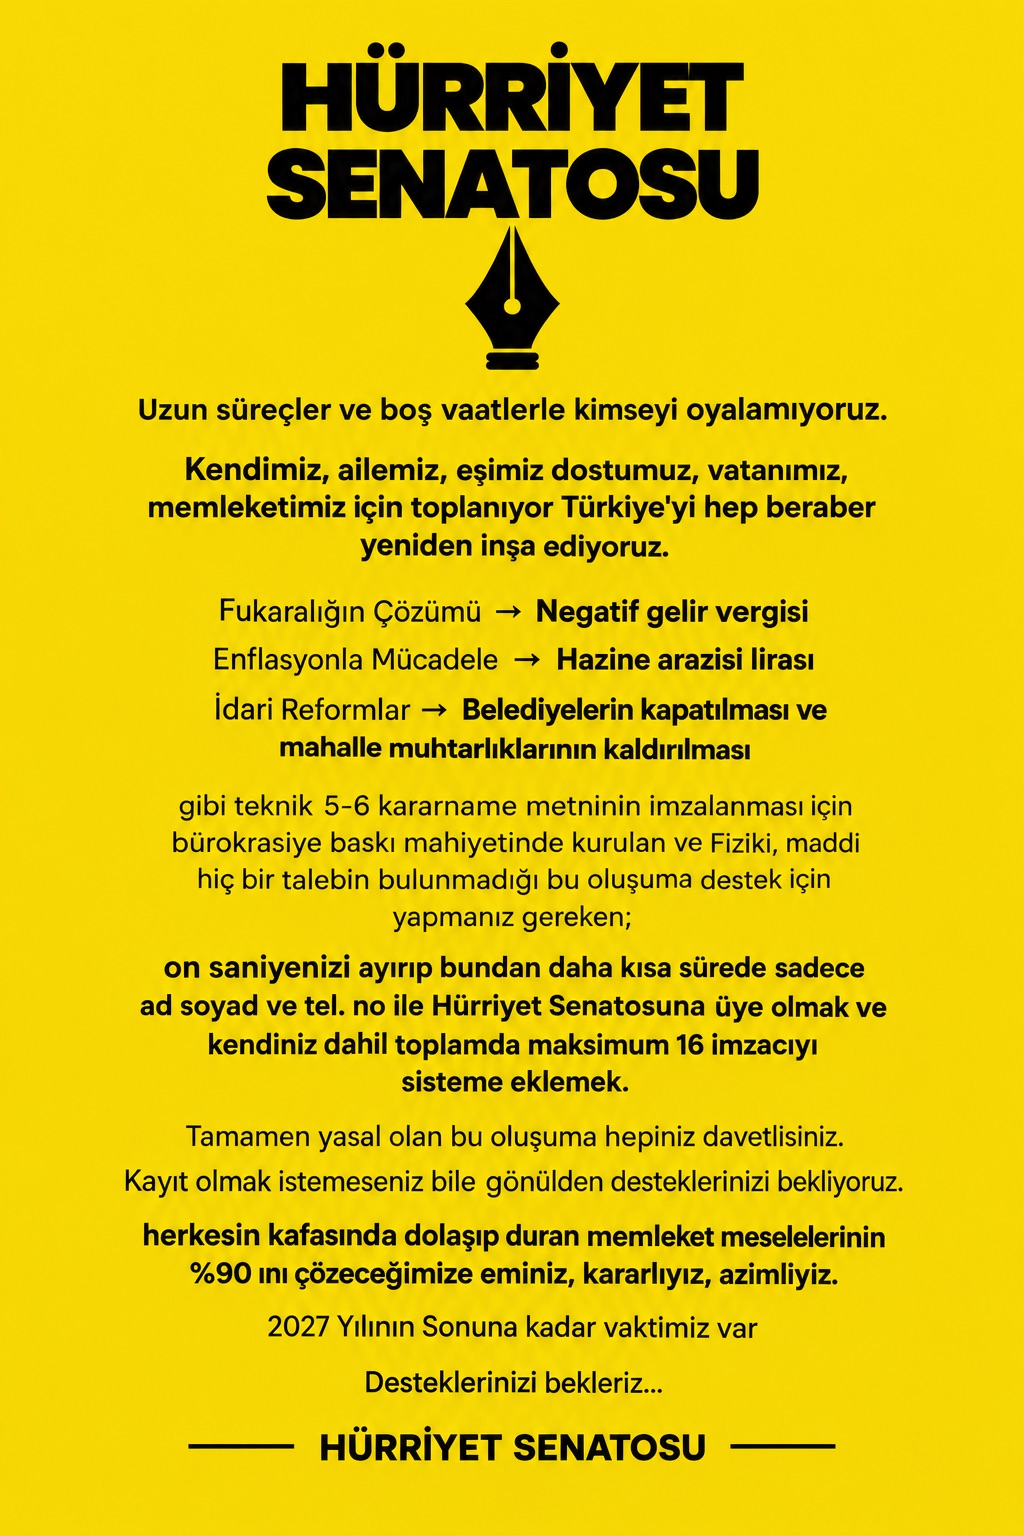
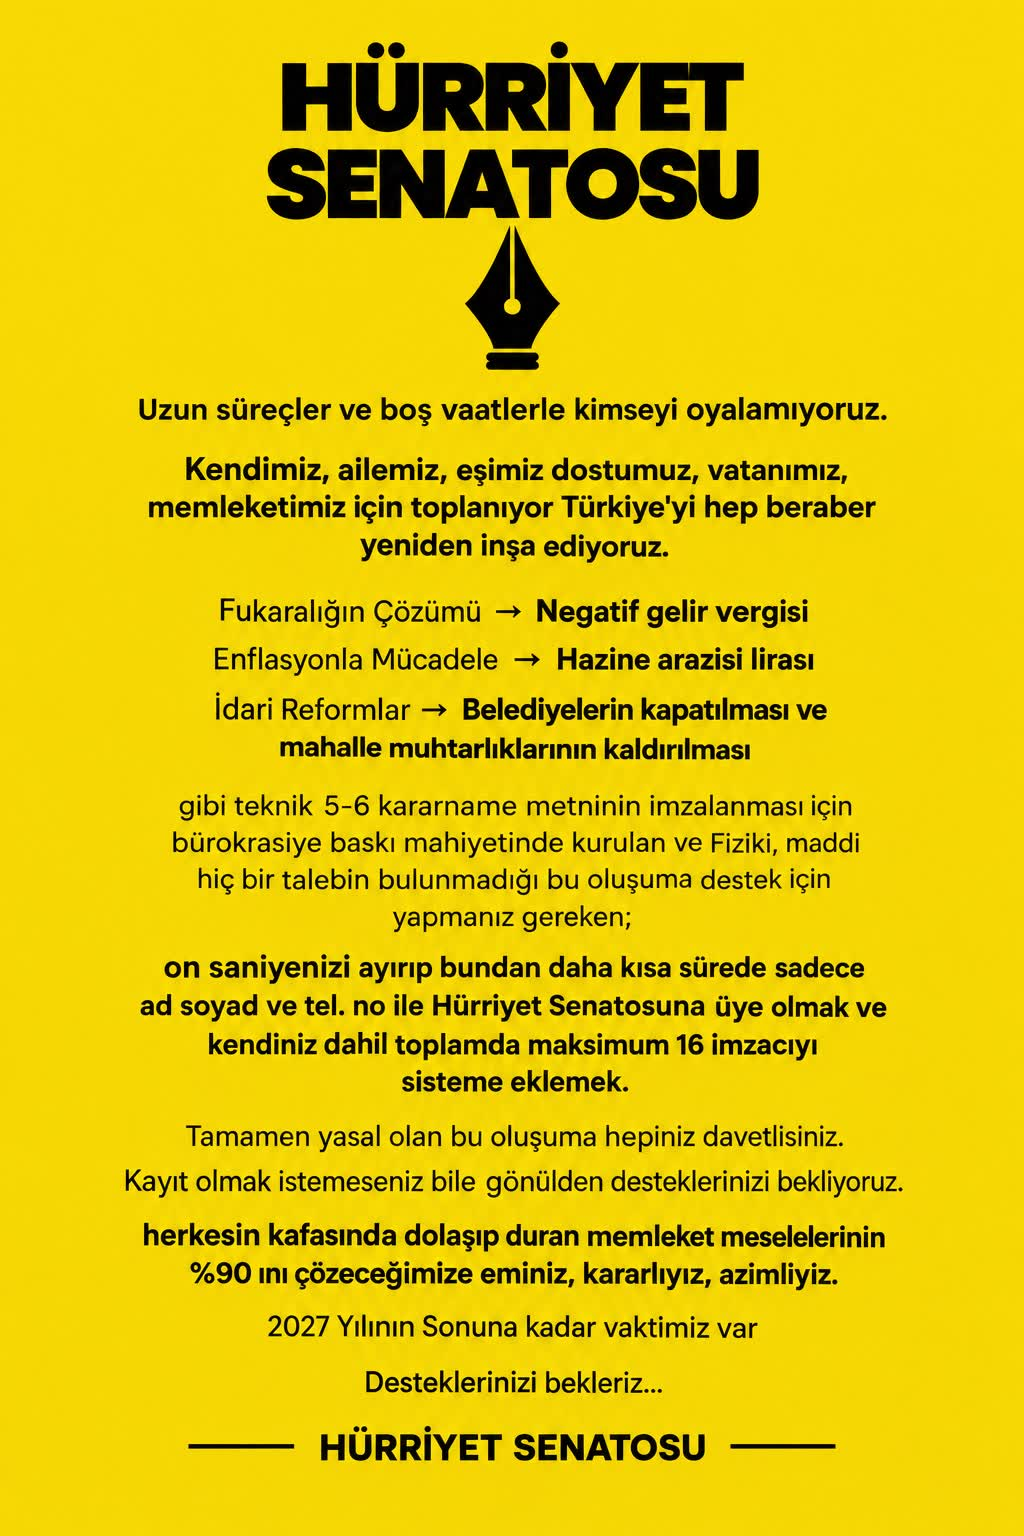
Davet pop-up'i: VSL'e dokunmayanlara ~12 sn sonra poster + Uye Ol dugmesi; X/Esc/arka plan ile kapanir; pop_up.jpg sikistirildi (383 -> 173 KB); onbellek v8

diff --git a/assets/js/main.js b/assets/js/main.js
@@ -5,6 +5,7 @@ const CONFIG = {
   STORE_URL: "{{STORE_URL}}",
   VSL_URL: "assets/video/vsl.mp4?v=7", // yerel mp4 (dosya yolu) veya YouTube linki
   REF_PARAM: "ref", // platform farklı parametre adı kullanıyorsa burayı değiştir
+  POPUP_DELAY_MS: 12000, // davet pop-up'ı gecikmesi (ms). Demo için URL'ye ?popup=8 yaz: 8 sn.
 };
 
 function isPlaceholder(v) {
@@ -358,6 +359,52 @@ document.addEventListener("DOMContentLoaded", () => {
       });
     }
   }
+
+  /* ---------- Davet pop-up'ı: VSL'e dokunmayan ziyaretçiye ~12 sn sonra bir kez ---------- */
+  (function davetPopup() {
+    const dlg = document.getElementById("davet");
+    if (!dlg || typeof dlg.showModal !== "function") return;
+    const kapatBtn = document.getElementById("davetKapat");
+    // Gösterildi mi? Yalnızca sekme oturumunda hatırlanır (çerez/localStorage kullanılmaz).
+    const goruldu = () => { try { return sessionStorage.getItem("hs_davet") === "1"; } catch { return false; } };
+    const isaretle = () => { try { sessionStorage.setItem("hs_davet", "1"); } catch {} };
+    if (goruldu()) return;
+    // Demo kolaylığı: ?popup=8 → 8 saniye sonra göster (1-120 sn)
+    const demoSn = (() => {
+      try {
+        const n = parseInt(new URLSearchParams(window.location.search).get("popup") || "", 10);
+        return n >= 1 && n <= 120 ? n * 1000 : 0;
+      } catch { return 0; }
+    })();
+    // VSL'e dokunulduysa (oynat düğmesi, video oynatma veya duraklat düğmesi) davet gösterilmez.
+    let vslDokunuldu = false;
+    const dokun = () => { vslDokunuldu = true; };
+    if (video) video.addEventListener("play", dokun);
+    if (play) play.addEventListener("click", dokun);
+    if (tgl) tgl.addEventListener("click", dokun);
+
+    const kapat = () => { if (dlg.open) dlg.close(); };
+    const ac = () => {
+      if (goruldu() || vslDokunuldu) return;
+      if (video && !video.paused && !video.ended) return; // video oynuyorsa dokunma
+      isaretle();
+      dlg.showModal();
+      document.body.classList.add("popup-acik");
+    };
+    if (kapatBtn) kapatBtn.addEventListener("click", kapat);
+    dlg.addEventListener("click", (e) => { if (e.target === dlg) kapat(); }); // arka plana tıklayınca kapan
+    dlg.addEventListener("close", () => document.body.classList.remove("popup-acik"));
+    dlg.querySelectorAll("[data-apply-link]").forEach((a) => a.addEventListener("click", isaretle));
+
+    setTimeout(() => {
+      if (document.visibilityState === "hidden") {
+        document.addEventListener("visibilitychange", function gor() {
+          document.removeEventListener("visibilitychange", gor);
+          ac();
+        });
+      } else { ac(); }
+    }, demoSn || CONFIG.POPUP_DELAY_MS || 12000);
+  })();
 
   /* ---------- Sorun şeridi: kesintisiz (sonsuz) döngü ---------- */
   const track = document.getElementById("tickerTrack");

diff --git a/index.html b/index.html
@@ -20,7 +20,7 @@
 <link rel="preload" href="assets/fonts/montserrat-latin-ext.woff2" as="font" type="font/woff2" crossorigin>
 <link rel="preload" href="assets/fonts/inter-latin-ext.woff2" as="font" type="font/woff2" crossorigin>
 <link rel="stylesheet" href="assets/css/fonts.css?v=5">
-<link rel="stylesheet" href="assets/css/main.css?v=7">
+<link rel="stylesheet" href="assets/css/main.css?v=8">
 <!-- {{ANALYTICS}} : gizlilik odaklı analitik gerekiyorsa bu satırın altına ekle. Varsayılan: üçüncü taraf script yok. -->
 </head>
 <body>
@@ -432,6 +432,18 @@
 <a class="sticky-cta" data-apply-link href="https://hursenato.com/">Senatör Ol &rarr;</a>
 <button class="to-top" id="toTop" aria-label="Başa dön">↑</button>
 
-<script src="assets/js/main.js?v=7" defer></script>
+<!-- Davet pop-up'ı: VSL'e dokunmayan ziyaretçiye ~12 sn sonra bir kez gösterilir -->
+<dialog class="popup" id="davet" aria-labelledby="davetBaslik">
+  <h2 class="visually-hidden" id="davetBaslik">Hürriyet Senatosu'na davet</h2>
+  <button class="popup-x" id="davetKapat" type="button" aria-label="Daveti kapat"><svg viewBox="0 0 24 24" width="18" height="18" aria-hidden="true" fill="none" stroke="currentColor" stroke-width="2.6" stroke-linecap="round"><path d="M6 6l12 12M18 6L6 18"/></svg></button>
+  <div class="popup-govde">
+    <img src="assets/img/pop_up.jpg" alt="Hürriyet Senatosu daveti: ad, soyad ve telefon numarasıyla kısa sürede üye ol; kendin dahil en fazla 16 imzacıyı sisteme ekle." width="1024" height="1536" loading="lazy" decoding="async">
+  </div>
+  <div class="popup-alt">
+    <a class="btn btn-primary" data-apply-link href="https://hursenato.com/">Üye Ol</a>
+  </div>
+</dialog>
+
+<script src="assets/js/main.js?v=8" defer></script>
 </body>
 </html>

diff --git a/assets/css/main.css b/assets/css/main.css
@@ -352,6 +352,22 @@ details p{margin:.65rem 0 0;color:var(--ink-soft)}
 .to-top:hover{transform:translateY(-3px)}
 @media(min-width:880px){.to-top{bottom:1.5rem}}
 
+/* ---------- Davet pop-up'ı (VSL'e dokunmayan ziyaretçiye ~12 sn sonra bir kez) ---------- */
+.popup{width:min(94vw,520px);max-height:92vh;max-height:92dvh;padding:0;border:2px solid var(--ink);border-radius:var(--radius);background:var(--paper);box-shadow:8px 9px 0 rgba(17,17,17,.75);overflow:hidden}
+.popup[open]{display:flex;flex-direction:column;animation:popGir .28s ease}
+.popup::backdrop{background:rgba(17,17,17,.62)}
+.popup-govde{overflow:auto;-webkit-overflow-scrolling:touch;background:var(--paper);scrollbar-width:thin}
+.popup-govde::-webkit-scrollbar{width:8px}
+.popup-govde::-webkit-scrollbar-thumb{background:rgba(17,17,17,.35);border-radius:8px}
+.popup-govde::-webkit-scrollbar-track{background:transparent}
+.popup-govde img{display:block;width:100%;height:auto}
+.popup-x{position:absolute;top:.5rem;right:.5rem;width:2.35rem;height:2.35rem;border-radius:50%;background:var(--ink);color:var(--paper);border:2px solid var(--paper);display:grid;place-items:center;cursor:pointer;transition:transform .2s ease}
+.popup-x:hover{transform:scale(1.08)}
+.popup-alt{padding:.8rem;background:#fff;border-top:2px solid var(--ink)}
+.popup-alt .btn{display:block;width:100%;text-align:center}
+body.popup-acik{overflow:hidden}
+@keyframes popGir{from{opacity:0;transform:translateY(14px) scale(.97)}}
+
 /* ---------- Animasyonlar ---------- */
 [data-reveal]{opacity:0;transform:translateY(24px);transition:opacity .6s ease,transform .6s ease}
 [data-reveal].in{opacity:1;transform:none}

diff --git a/README.md b/README.md
@@ -27,8 +27,10 @@ python scripts/serve.py 8000        # --open eklersen tarayıcıyı da açar
 `scripts/serve.py` her yanıta `Cache-Control: no-store` ekler: VS Code'da CSS/JS'i
 kaydedip tarayıcıda **F5** yaptığında değişiklik anında görünür. Klasik
 `python -m http.server 8000` kullanırsan tarayıcı eski CSS'i önbellekten servis edebilir;
-o durumda **Ctrl+F5** (sert yenileme) yap. CSS/JS bağlantılarındaki `?v=7` eki de
-bir kerelik önbellek kırıcıdır — büyük bir değişiklikte bir artır (`?v=8`).
+o durumda **Ctrl+F5** (sert yenileme) yap. CSS/JS bağlantılarındaki `?v=8` eki de
+bir kerelik önbellek kırıcıdır — değişen dosyanın sürümünü bir artır (`?v=9`);
+video/poster gibi ağır dosyalar değişmediyse onların `?v`'sine dokunma (boşuna
+yeniden indirilmesin).
 
 ## Yapı
 
@@ -36,10 +38,11 @@ bir kerelik önbellek kırıcıdır — büyük bir değişiklikte bir artır (`
 index.html                      — tek sayfa (semantik, lang="tr")
 assets/css/fonts.css            — self-hosted font tanımları (build çıktısı)
 assets/css/main.css             — tema + bileşenler (tek tema: marka sarısı)
-assets/js/main.js               — ref aktarımı, VSL, sayaç, filtre, reveal, scrollspy
+assets/js/main.js               — ref aktarımı, VSL, davet pop-up'ı, sayaç, filtre, reveal, scrollspy
 assets/video/vsl.mp4            — VSL tanıtım filmi (9:16, 720×1280, H.264/AAC, 39,6 MB, faststart)
 assets/fonts/*.woff2            — Montserrat + Inter (latin + latin-ext)
 assets/img/vsl-poster.jpg       — VSL videosunun 20. sn'sinden alınan 9:16 poster (720×1280)
+assets/img/pop_up.jpg           — davet pop-up'ı posteri (1024×1536, ~173 KB; yazılar görselin içinde)
 assets/img/hur-senator.png      — kullanılmıyor (sembol/rozet vurgusu kaldırıldı; dosya arşiv olarak duruyor)
 assets/img/login-ekrani.png     — platform giriş ekranı (721x570, "1. adım" kartındaki çerçeveli görsel)
 scripts/serve.py                — önbelleksiz yerel önizleme sunucusu (+ HTTP Range: video sarma)
@@ -157,6 +160,15 @@ sayfa "ideolojiden bağımsız katılım" çizgisini korur.
   (`transition-delay`) reveal bitince JS ile silinir; aksi halde hover ve filtre geçiş
   animasyonlarına da bulaşıp gecikmeli tepki veriyordu. Filtre değişiminde yalnızca yeni
   görünen kartlar `pop` animasyonu oynatır (ekranda duranlar yeniden oynamaz).
+- **Davet pop-up'ı:** `index.html`'deki `<dialog id="davet">`, VSL'e hiç dokunmayan ziyaretçiye
+  12 saniye sonra **bir kez** gösterilir (oynat/duraklat düğmesi veya video oynatma = dokunuldu
+  sayılır, pop-up gösterilmez). Süre `assets/js/main.js` → `CONFIG.POPUP_DELAY_MS`; sunum/demo
+  için URL'ye `?popup=8` yazarsan 8 saniye olur (1-120 sn). Görsel: `assets/img/pop_up.jpg`
+  (metinler posterin içindedir; poster değişirse aynı boyut oranını koru). Kapatma: üstteki ✕,
+  `Esc` veya arka plana tıklama; kapanınca sayfa kaldığı yerden devam eder. Bir sekme
+  oturumunda bir kez gösterilir (`sessionStorage: hs_davet`; çerez/localStorage kullanılmaz).
+  Her yenilemede çıkmasını istersen `main.js`'teki `goruldu()`/`isaretle()` denetimini kaldır.
+  "Üye Ol" düğmesi `data-apply-link` sayesinde `?ref=` parametresini taşır.
 - **Gizlilik:** Sayfa açılışında ve oynatma boyunca üçüncü taraf istek yok — tanıtım filmi de
   kendi klasörümüzden servis edilir. `CONFIG.VSL_URL`'e YouTube linki yazılırsa YouTube alan adları
   yalnızca "oynat"a basıldıktan sonra devreye girer. `ref` parametresi linke eklenir,
@@ -239,6 +251,9 @@ Vektör logo dosyası gelirse bu sembol birebir değiştirilebilir.
 - [x] Footer'daki doldurulmamış `{{...}}` linkleri gizli, cümle içindekiler link olmaktan
       çıkıp metin olarak kalıyor (kırık link yok); `?ref=` altı başvuru linkinin tümüne
       taşınıyor (6/6), cookie/localStorage temiz; sayfa açılışında üçüncü taraf istek 0
+- [x] Davet pop-up'ı: VSL'e dokunmayan ziyaretçiye ~12 sn sonra bir kez; ✕ / `Esc` / arka planla
+      kapanır, aynı oturumda tekrar çıkmaz; VSL oynarken veya oynatıldıysa gösterilmez;
+      "Üye Ol" `?ref=` taşır; poster kendi sunucumuzdan (`assets/img/pop_up.jpg`)
 
 ## Sayfa akışı (bölüm sırası)
 
